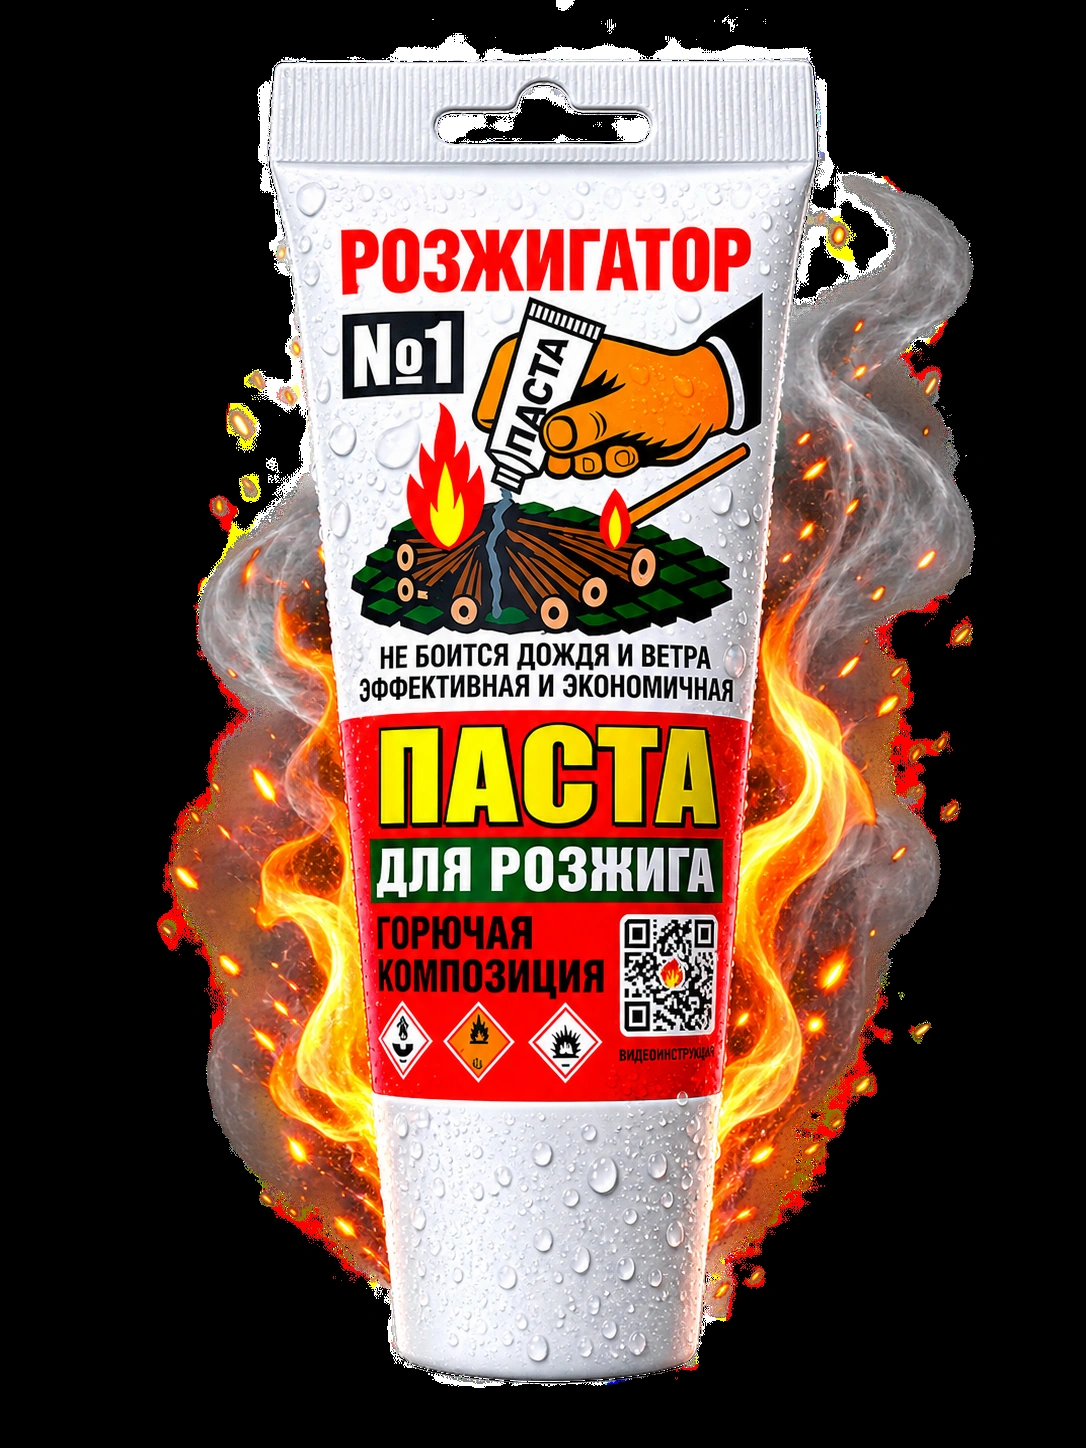
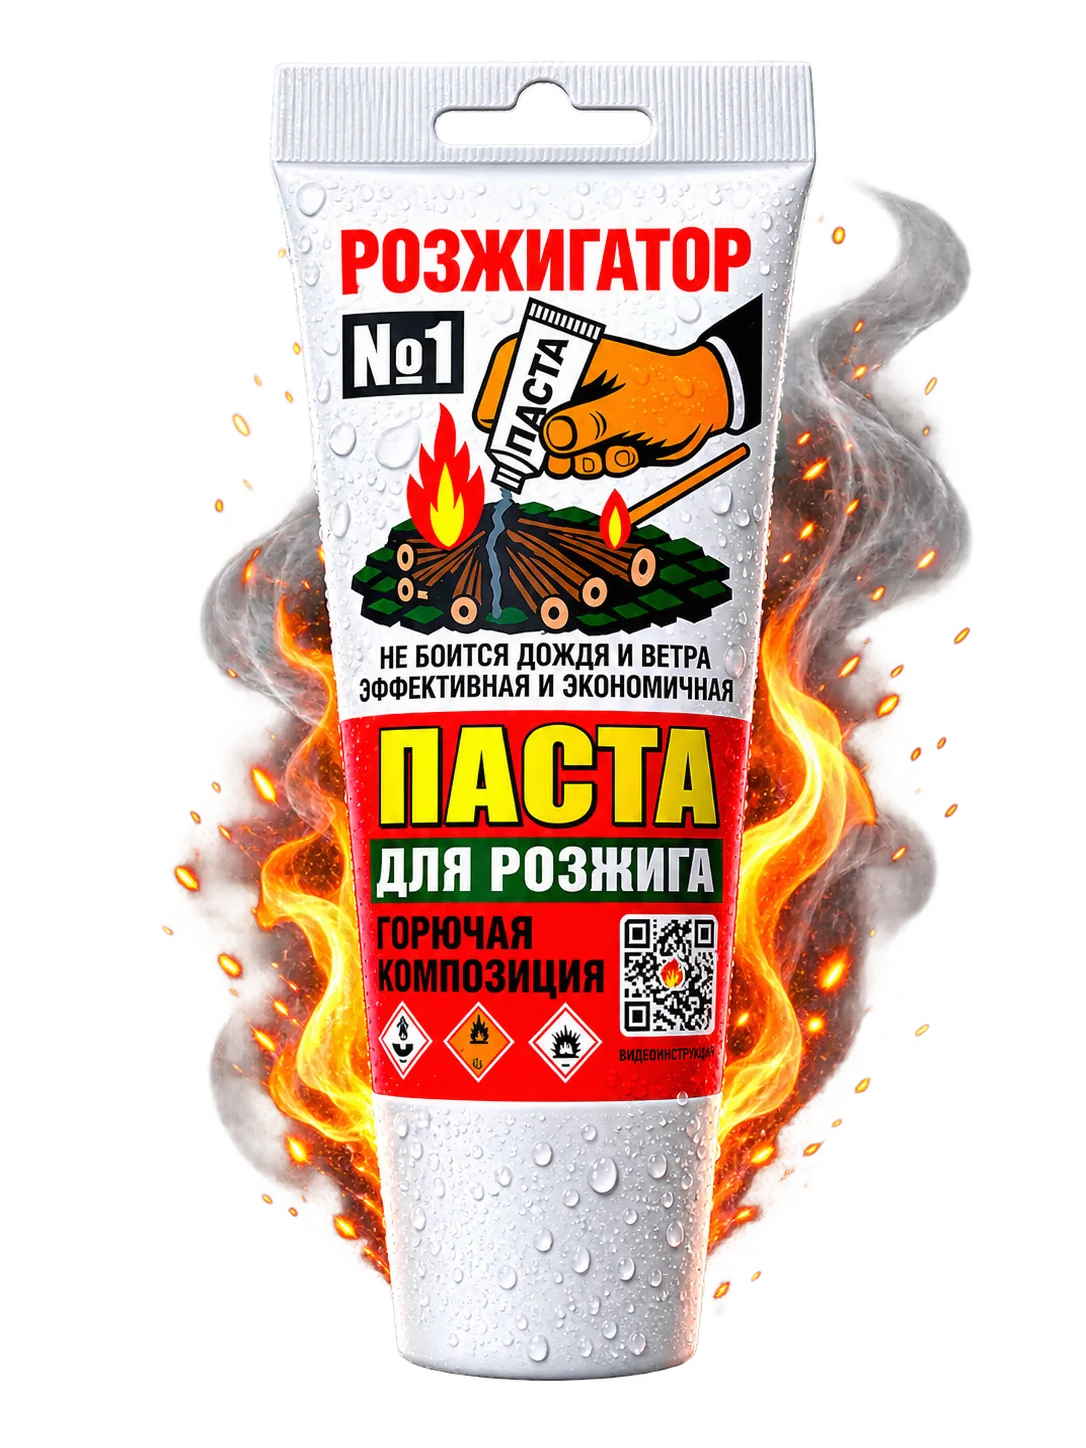
Reduce initial image payload

diff --git a/index.html b/index.html
@@ -18,12 +18,12 @@
 <a class="skip-link" href="#main">Перейти к содержимому</a>
 <header class="site-header"><a class="brand" href="" aria-label="Продукты №1 — на главную"><span class="brand-mark">№1</span><span>ПРОДУКТЫ<br>ДЛЯ ДЕЛА</span></a><button class="menu-toggle" aria-expanded="false" aria-controls="primary-nav">Меню</button><nav id="primary-nav" class="primary-nav" aria-label="Основная навигация"><div class="nav-products"><button class="products-toggle" aria-expanded="false" aria-controls="products-menu">Продукты <span>+</span></button><div id="products-menu" class="products-menu"><a href="rozzhigator/">Розжигатор №1</a><a href="rabochaya-pasta/">Рабочая паста №1</a></div></div><a href="#about">О компании</a><a href="opt/">Оптовым покупателям</a><a href="contacts/">Контакты</a><a class="button button-small" href="opt/#wholesale-form">Заказать оптом</a></nav></header>
 <main id="main">
-<section class="hero section-grid"><div class="hero-copy"><p class="eyebrow">ПРОДУКТЫ ДЛЯ РЕАЛЬНОЙ ЖИЗНИ</p><h1>РЕШЕНИЯ №1<br>ДЛЯ СЛОЖНЫХ ЗАДАЧ</h1><p class="lead">Разжечь огонь. Очистить руки. Без лишней возни.</p><div class="actions"><a class="button" href="#products">Выбрать продукт</a><a class="button button-outline" href="opt/#wholesale-form">Заказать оптом</a></div><div class="micro-labels"><span>Понятное назначение</span><span>Удобный формат</span><span>Для дома и работы</span></div></div><div class="hero-poster hero-products" aria-label="Розжигатор №1 и Рабочая паста №1"><div class="burst" aria-hidden="true"></div><img class="hero-product hero-product--fire" src="assets/images/products/rozzhigator-hero.png" alt="Упаковка Розжигатора №1" width="327" height="728"><img class="hero-product hero-product--clean" src="assets/images/products/rabochaya-pasta-hero.png" alt="Упаковка Рабочей пасты №1" width="595" height="725"></div></section>
+<section class="hero section-grid"><div class="hero-copy"><p class="eyebrow">ПРОДУКТЫ ДЛЯ РЕАЛЬНОЙ ЖИЗНИ</p><h1>РЕШЕНИЯ №1<br>ДЛЯ СЛОЖНЫХ ЗАДАЧ</h1><p class="lead">Разжечь огонь. Очистить руки. Без лишней возни.</p><div class="actions"><a class="button" href="#products">Выбрать продукт</a><a class="button button-outline" href="opt/#wholesale-form">Заказать оптом</a></div><div class="micro-labels"><span>Понятное назначение</span><span>Удобный формат</span><span>Для дома и работы</span></div></div><div class="hero-poster hero-products" aria-label="Розжигатор №1 и Рабочая паста №1"><div class="burst" aria-hidden="true"></div><img class="hero-product hero-product--fire" src="assets/images/products/rozzhigator-hero.webp" alt="Упаковка Розжигатора №1" width="327" height="728"><img class="hero-product hero-product--clean" src="assets/images/products/rabochaya-pasta-hero.webp" alt="Упаковка Рабочей пасты №1" width="595" height="725"></div></section>
 <section id="products" class="products section-pad"><div class="section-intro"><p class="eyebrow">ПРОДУКТОВАЯ ЛИНЕЙКА</p><h2>ДВА ПРОДУКТА.<br>ОДНА ЛОГИКА.</h2><p>Мы создаём продукты, которые решают конкретную задачу понятным способом. Без сложных ритуалов и лишних обещаний.</p></div><div class="product-split"><article class="product product-fire"><div class="product-art" aria-hidden="true"><span>ОГОНЬ</span><b>№1</b></div><div class="product-info"><p class="eyebrow">ОГОНЬ</p><h3>ОГОНЬ НАЧИНАЕТСЯ<br>С ОДНОЙ ТОЧКИ</h3><p>Паста для розжига дров, угля и брикетов в мангале, костре, камине или гриле.</p><ul><li>Точечное нанесение</li><li>Компактный формат</li><li>Для дров, угля и брикетов</li></ul><div class="actions"><a class="text-link" href="rozzhigator/">Подробнее <span>→</span></a><a class="button button-dark" data-ozon="rozzhigator" target="_blank" rel="noopener noreferrer" href="https://www.ozon.ru/product/pasta-dlya-rozzhiga-ognya-rozzhigator-1-2859618023/">Купить на Ozon ↗</a></div></div></article><article class="product product-clean"><div class="product-art" aria-hidden="true"><span>ЧИСТОТА</span><b>№1</b></div><div class="product-info"><p class="eyebrow">ЧИСТОТА</p><h3>ГРЯЗНАЯ РАБОТА.<br>ЧИСТЫЕ РУКИ.</h3><p>Парфюмированная паста для очистки рук от сложных технических загрязнений. Упаковка 1 кг.</p><ul><li>Для автосервиса и мастерской</li><li>Для производства, гаража и дачи</li><li>Упаковка 1 кг</li></ul><div class="actions"><a class="text-link" href="rabochaya-pasta/">Подробнее <span>→</span></a><a class="button button-dark" data-ozon="rabochaya-pasta" target="_blank" rel="noopener noreferrer" href="https://www.ozon.ru/product/pasta-dlya-ochistki-ruk-rabochaya-pasta-1-parfyumirovannaya-1kg-4406988230/">Купить на Ozon ↗</a></div></div></article></div></section>
-<section class="principles section-pad dark"><div class="principles-top"><div class="section-intro"><p class="eyebrow">НАШ ПОДХОД</p><h2>НЕ УСЛОЖНЯЕМ ТО,<br>ЧТО ДОЛЖНО РАБОТАТЬ</h2></div><figure class="principles-media"><img src="assets/images/products/products-principles.png" alt="Рабочая паста №1 и Розжигатор №1" width="1680" height="945"></figure></div><div class="principle-list"><div><b>01</b><h3>Понятно</h3><p>Сразу видно, какую задачу решает продукт и как им пользоваться.</p></div><div><b>02</b><h3>Практично</h3><p>Формат рассчитан на реальное применение дома, на работе и на природе.</p></div><div><b>03</b><h3>По делу</h3><p>Меньше маркетингового шума. Больше конкретной пользы.</p></div></div><p class="closing-line">Для тех, кто привык решать задачи, а не обсуждать их.</p></section>
+<section class="principles section-pad dark"><div class="principles-top"><div class="section-intro"><p class="eyebrow">НАШ ПОДХОД</p><h2>НЕ УСЛОЖНЯЕМ ТО,<br>ЧТО ДОЛЖНО РАБОТАТЬ</h2></div><figure class="principles-media"><img loading="lazy" decoding="async" src="assets/images/products/products-principles.webp" alt="Рабочая паста №1 и Розжигатор №1" width="1680" height="945"></figure></div><div class="principle-list"><div><b>01</b><h3>Понятно</h3><p>Сразу видно, какую задачу решает продукт и как им пользоваться.</p></div><div><b>02</b><h3>Практично</h3><p>Формат рассчитан на реальное применение дома, на работе и на природе.</p></div><div><b>03</b><h3>По делу</h3><p>Меньше маркетингового шума. Больше конкретной пользы.</p></div></div><p class="closing-line">Для тех, кто привык решать задачи, а не обсуждать их.</p></section>
 <section class="scenarios section-pad"><div class="scenario-heading"><p class="eyebrow">ГДЕ ПРИГОДИТСЯ</p><h2>ТАМ, ГДЕ НУЖНО<br>СДЕЛАТЬ ДЕЛО</h2><p class="closing-line">От отдыха на природе до ежедневной работы в мастерской.</p></div><div class="scenario-map"><div class="scenario-group"><b>РОЗЖИГАТОР №1</b><div><span class="scenario fire">Дача</span><span class="scenario fire">Мангал</span><span class="scenario fire">Костёр</span><span class="scenario fire">Рыбалка</span><span class="scenario fire">Поход</span></div></div><div class="scenario-group"><b>РАБОЧАЯ ПАСТА №1</b><div><span class="scenario work">Автосервис</span><span class="scenario work">Производство</span><span class="scenario work">Мастерская</span><span class="scenario work">Гараж</span><span class="scenario work">Ремонт</span></div></div></div></section>
 <section id="about" class="about section-pad"><div><p class="eyebrow">О КОМПАНИИ</p><h2>ПРОДУКТЫ, КОТОРЫЕ<br>НЕ НУЖНО ДОЛГО<br>ОБЪЯСНЯТЬ</h2></div><div class="about-copy"><p>Компания создаёт практичные средства для бытовых и профессиональных задач. Мы уделяем внимание назначению продукта, удобству использования и понятному формату.</p><p>Сегодня в линейке два продукта: паста для розжига «Розжигатор №1» и очищающая «Рабочая паста №1». Ассортимент может расширяться, но принцип останется прежним: каждый продукт должен решать конкретную задачу.</p><!-- TODO: добавить подтверждённые сведения о компании после получения данных --><div class="logic-diagram"><span>Понятная задача</span><i>→</i><span>Практичный формат</span><i>→</i><span>Реальное применение</span></div></div></section>
-<section class="wholesale section-pad"><div class="wholesale-copy"><p class="eyebrow">ДЛЯ МАГАЗИНОВ И СЕТЕЙ</p><h2>ДВА ТОВАРА.<br>ОДИН ПОСТАВЩИК.</h2><p>Закажите «Розжигатор №1», «Рабочую пасту №1» или оба продукта для своего магазина, торговой сети или маркетплейса.</p><a class="button button-yellow" href="opt/#wholesale-form">Получить оптовое предложение</a><small>Актуальный прайс и условия предоставляются по запросу.</small></div><figure class="wholesale-media"><img src="assets/images/products/wholesale-products.png" alt="Розжигатор №1 и Рабочая паста №1 для оптовой поставки" width="1680" height="945"></figure></section>
+<section class="wholesale section-pad"><div class="wholesale-copy"><p class="eyebrow">ДЛЯ МАГАЗИНОВ И СЕТЕЙ</p><h2>ДВА ТОВАРА.<br>ОДИН ПОСТАВЩИК.</h2><p>Закажите «Розжигатор №1», «Рабочую пасту №1» или оба продукта для своего магазина, торговой сети или маркетплейса.</p><a class="button button-yellow" href="opt/#wholesale-form">Получить оптовое предложение</a><small>Актуальный прайс и условия предоставляются по запросу.</small></div><figure class="wholesale-media"><img loading="lazy" decoding="async" src="assets/images/products/wholesale-products.webp" alt="Розжигатор №1 и Рабочая паста №1 для оптовой поставки" width="1680" height="945"></figure></section>
 <section class="final-cta section-pad"><p class="eyebrow">ВЫБОР ЗА ВАМИ</p><h2>ВЫБЕРИТЕ<br>СВОЙ №1</h2><div class="final-links"><a href="rozzhigator/"><span>01</span>Розжигатор №1 <b>→</b></a><a href="rabochaya-pasta/"><span>02</span>Рабочая паста №1 <b>→</b></a><a class="red-link" href="opt/#wholesale-form"><span>03</span>Заказать оптом <b>→</b></a></div></section>
 </main>
 <footer class="site-footer"><div class="footer-brand"><span class="brand-mark">№1</span><p>Продукты №1.<br>Практичные решения<br>для реальных задач.</p></div><div><h3>Продукты</h3><a href="rozzhigator/">Розжигатор №1</a><a href="rabochaya-pasta/">Рабочая паста №1</a></div><div><h3>Покупателям</h3><a href="opt/">Оптовым покупателям</a><a href="contacts/">Контакты</a></div><div><h3>Документы</h3><a href="privacy/">Политика обработки данных</a><a href="consent/">Согласие на обработку данных</a></div><div><h3>Мы на связи</h3><a class="footer-phone" href="tel:+79214774777">+7 (921) 477-47-77</a><div class="footer-socials"><!-- PLACEHOLDER: заменить на подтверждённые контактные данные --><a class="footer-social-link" href="https://t.me/Airapetian_Vadim" target="_blank" rel="noopener noreferrer" aria-label="Telegram @Airapetian_Vadim"><img src="assets/icons/brands/telegram.svg" alt="" width="24" height="24"></a><a class="footer-social-link" href="https://max.ru/join/h308RtB3o9O3E5S8RD9xw1-KrrHeEQucvA1G_etLBjs" target="_blank" rel="noopener noreferrer" aria-label="Открыть MAX">MAX</a><!-- PLACEHOLDER: заменить на подтверждённые контактные данные --><a class="footer-social-link" href="https://vk.ru/club238262945" target="_blank" rel="noopener noreferrer" aria-label="ВКонтакте — клуб 238262945"><img src="assets/icons/brands/vk.svg" alt="" width="24" height="24"></a></div></div><p class="copyright">Продукты №1, 2026.</p></footer>
